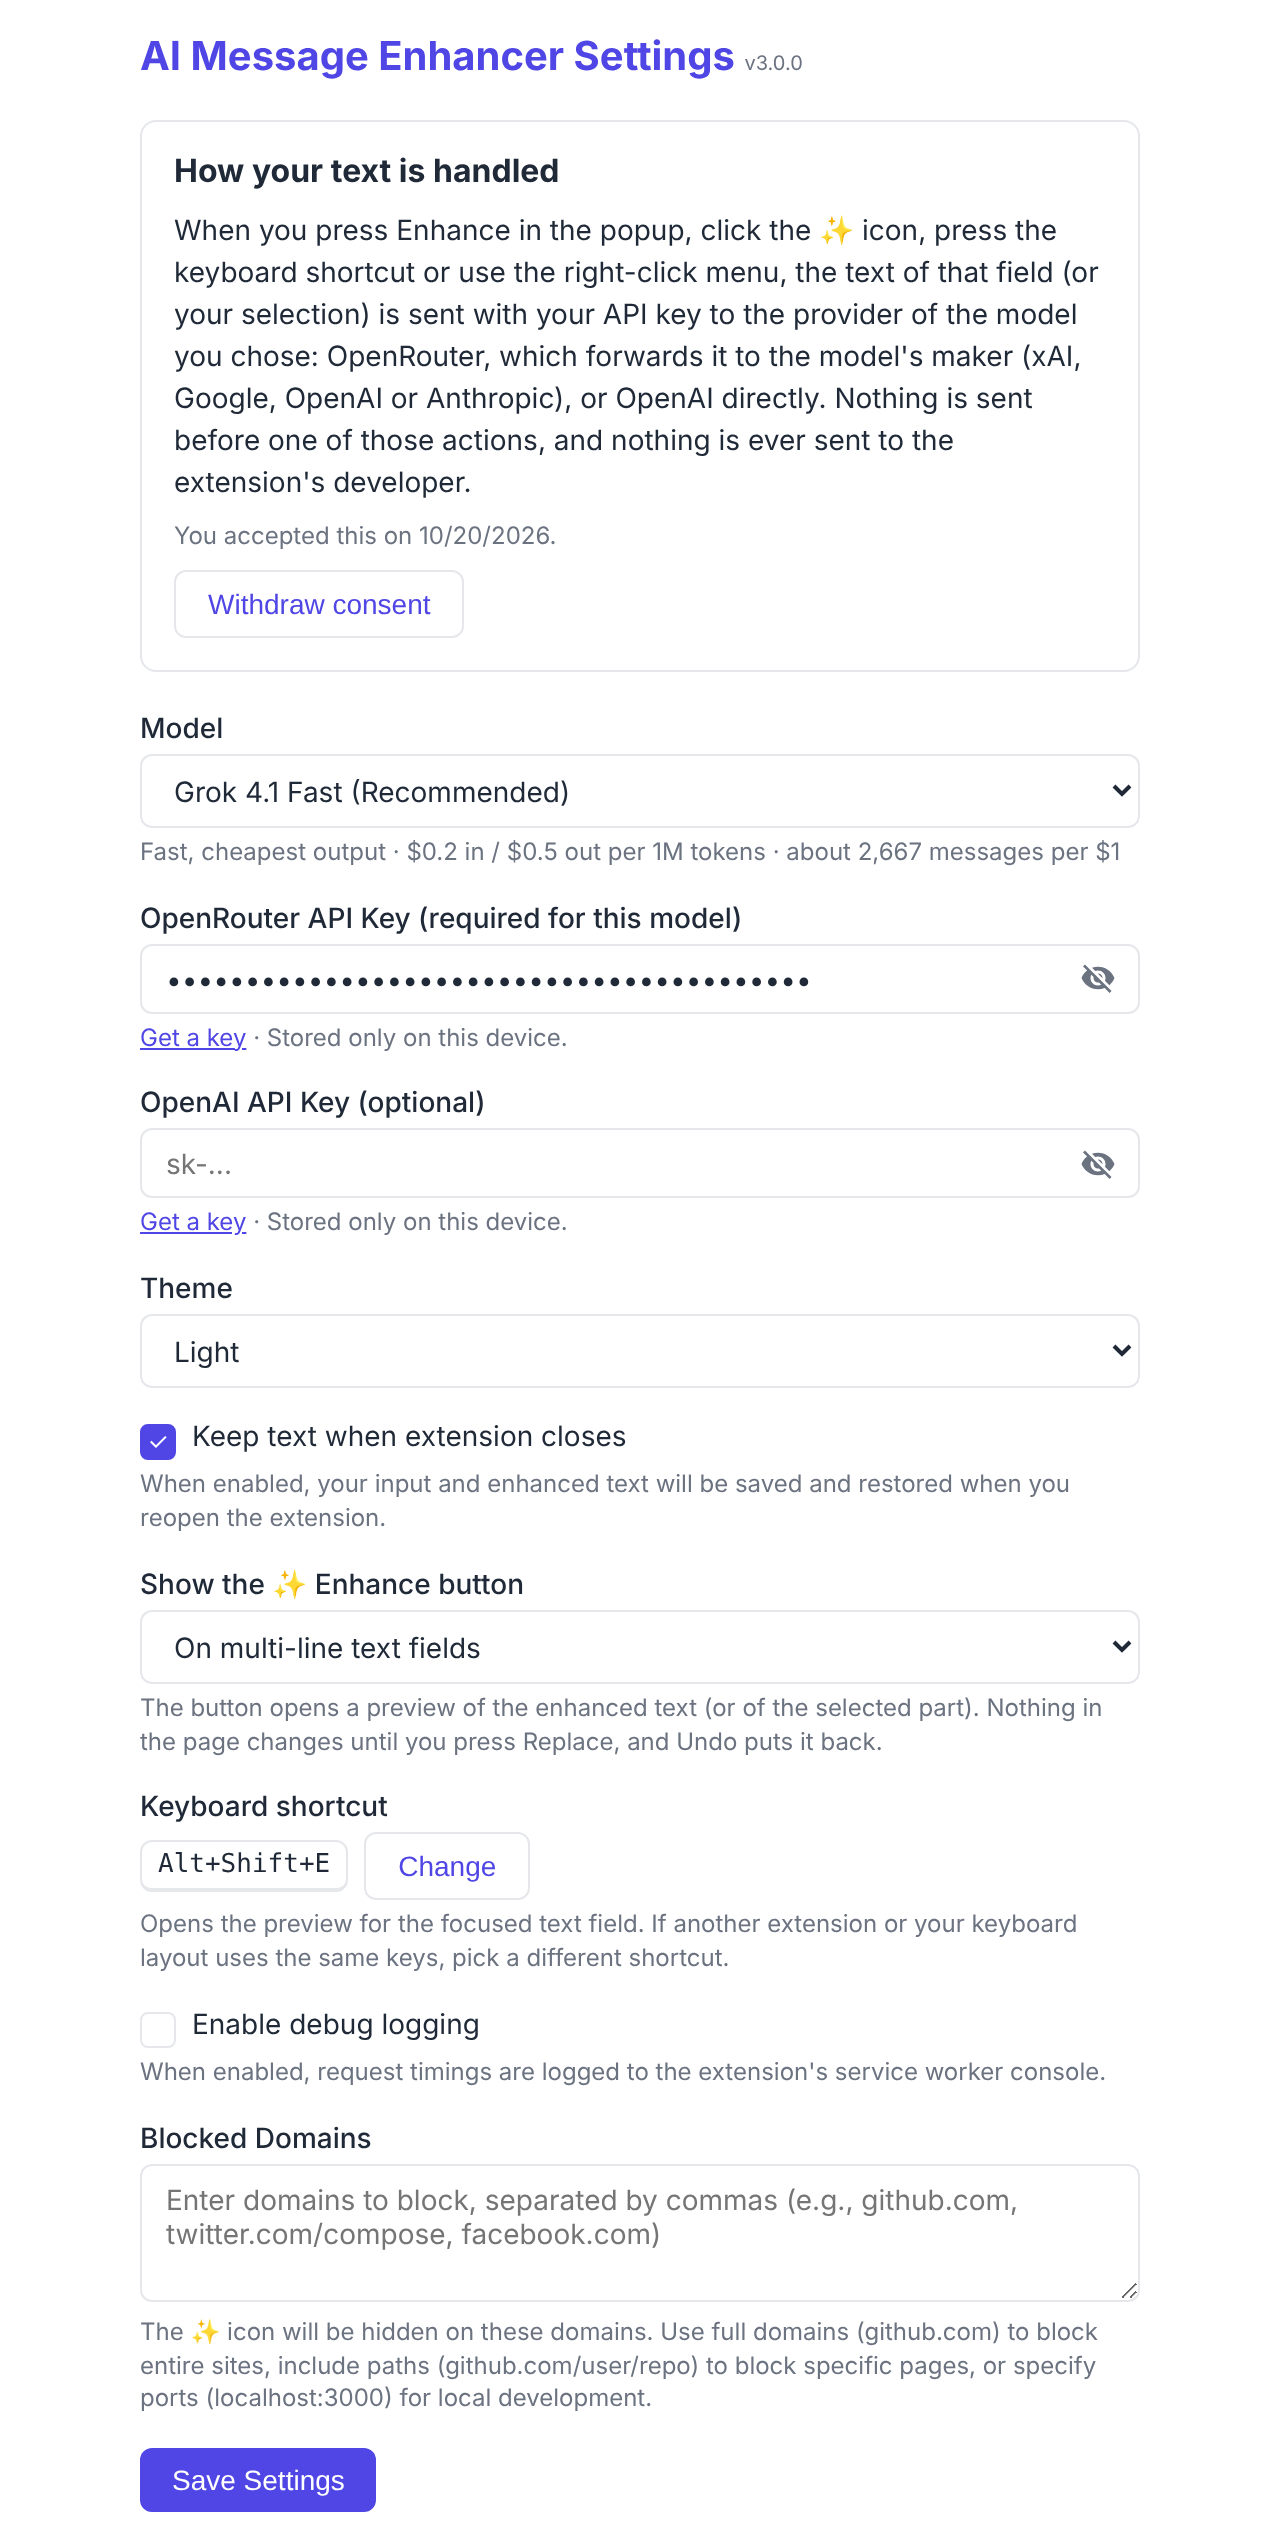
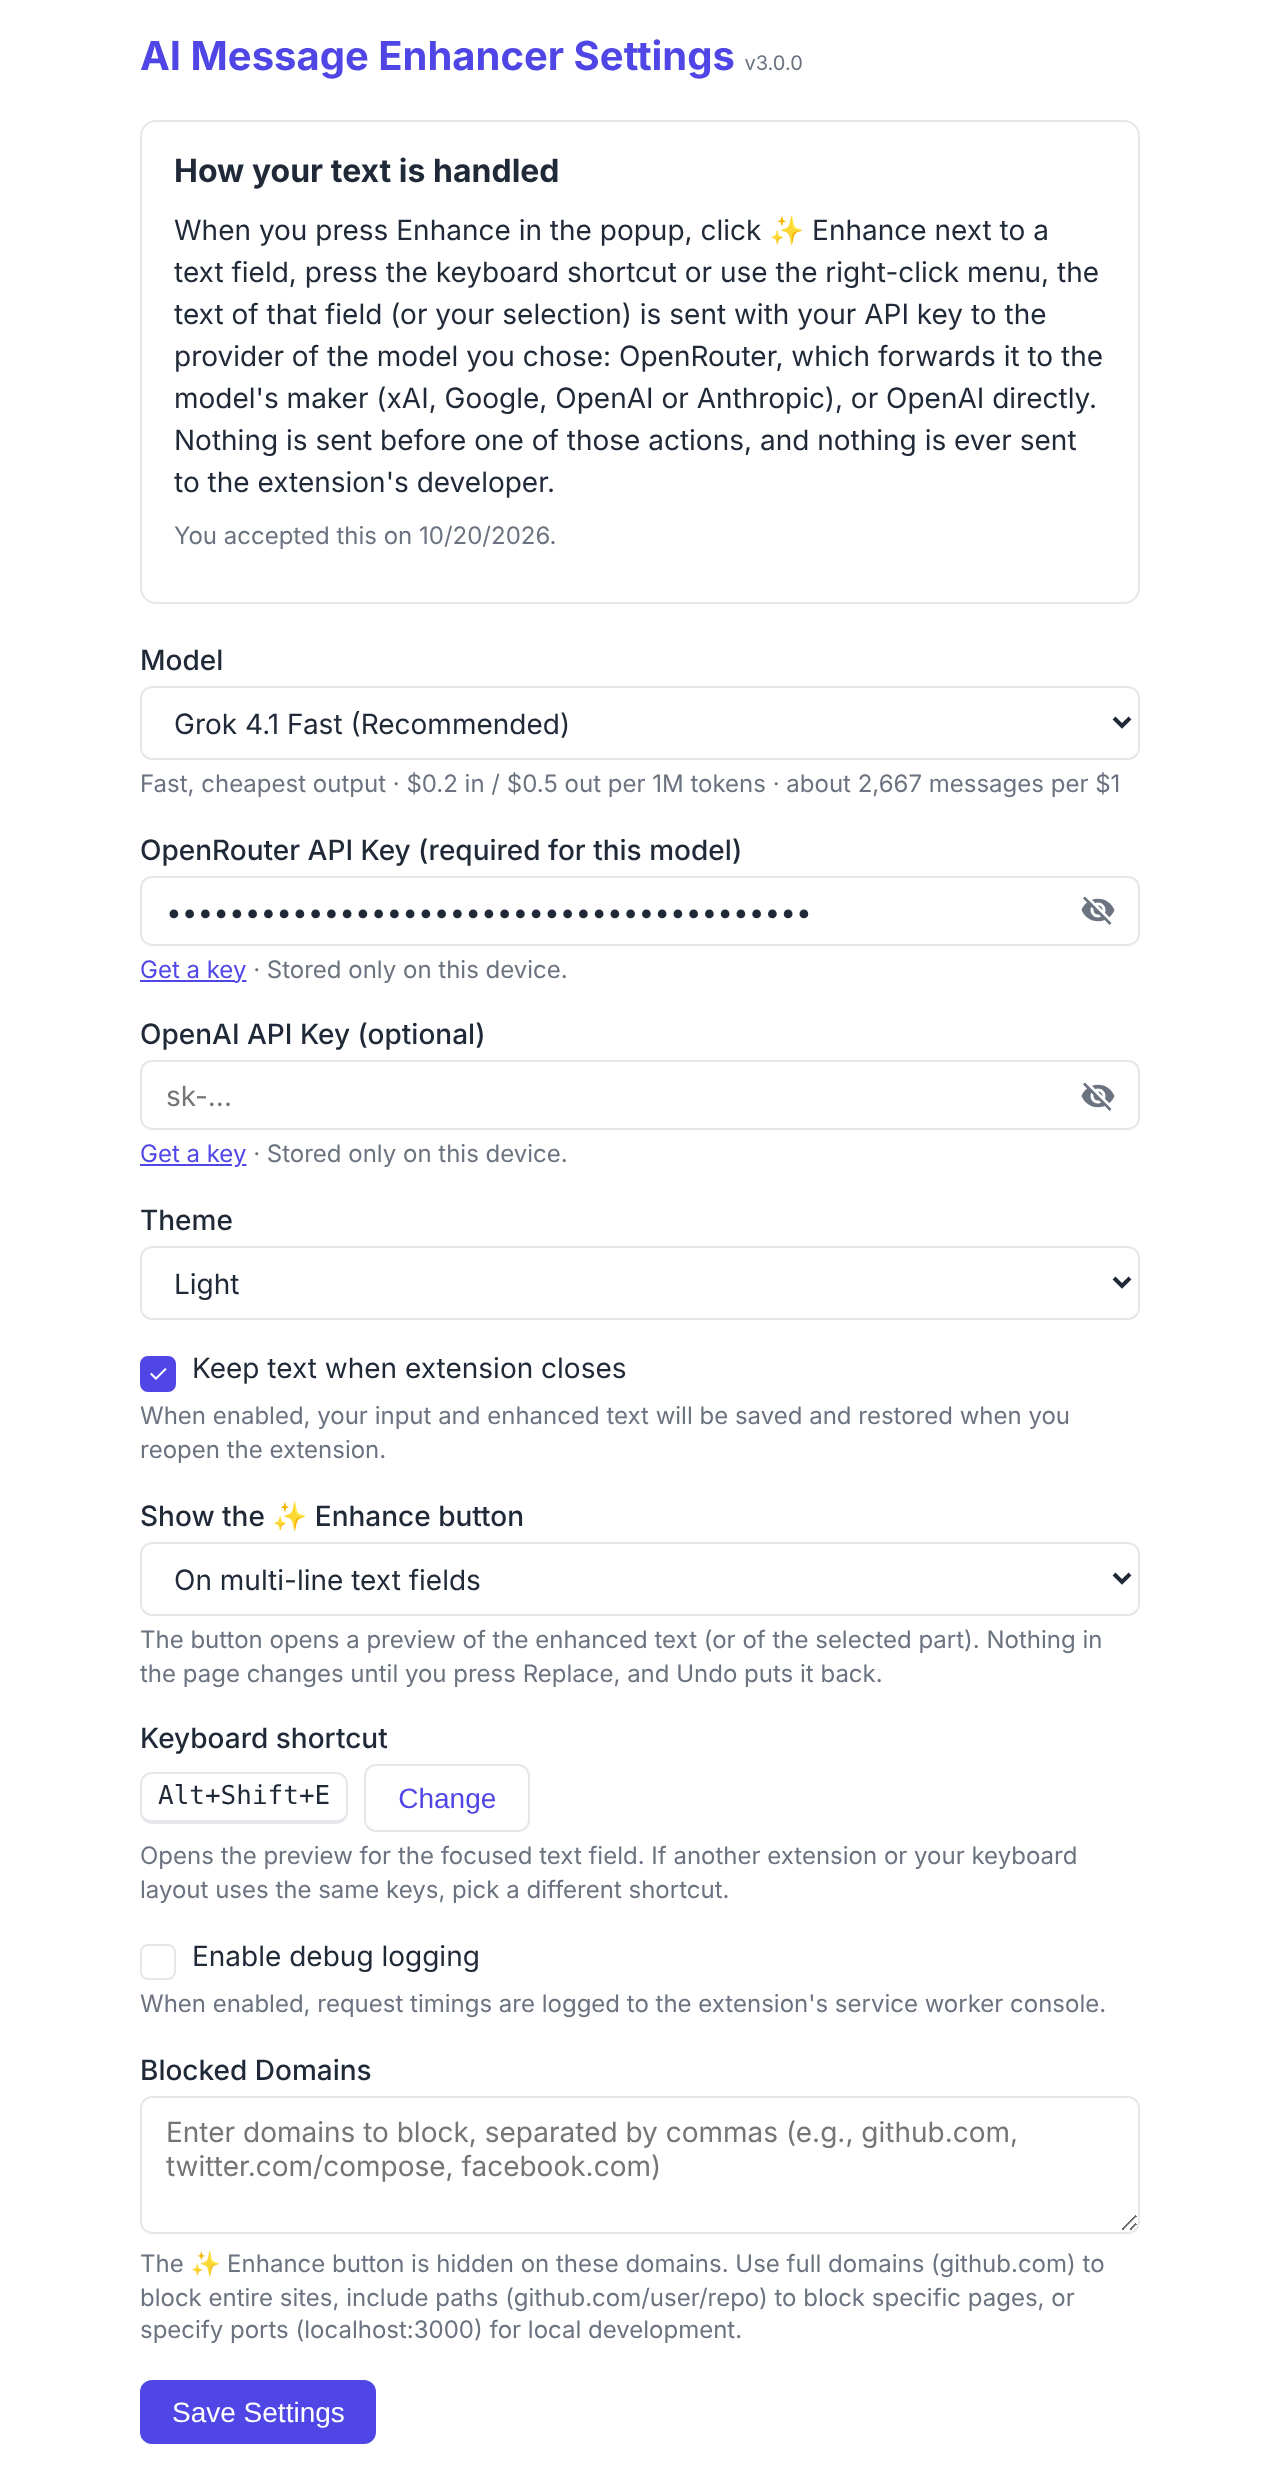
fix(settings): confirm the data notice with a single OK button

diff --git a/src/scripts/options.js b/src/scripts/options.js
@@ -143,17 +143,12 @@ async function renderConsent() {
   dataNotice.classList.toggle("pending", !accepted);
   consentStatus.textContent = accepted
     ? `You accepted this on ${new Date(dataConsent.at).toLocaleDateString()}.`
-    : "The extension sends nothing until you agree.";
-  consentButton.textContent = accepted ? "Withdraw consent" : "I agree";
-  consentButton.className = accepted ? "secondary-button" : "";
+    : "The extension sends nothing until you press OK.";
+  consentButton.hidden = accepted;
 }
 
-async function toggleConsent() {
-  if (consentButton.textContent === "I agree") {
-    await chrome.storage.local.set({ dataConsent: { version: DATA_CONSENT_VERSION, at: Date.now() } });
-  } else {
-    await chrome.storage.local.remove("dataConsent");
-  }
+async function acceptConsent() {
+  await chrome.storage.local.set({ dataConsent: { version: DATA_CONSENT_VERSION, at: Date.now() } });
   renderConsent();
 }
 
@@ -238,7 +233,7 @@ renderApiKeyFields();
 modelSelect.addEventListener("change", updateModelHelp);
 themeSelect.addEventListener("change", () => applyTheme(themeSelect.value));
 saveButton.addEventListener("click", saveSettings);
-consentButton.addEventListener("click", toggleConsent);
+consentButton.addEventListener("click", acceptConsent);
 // Extension pages may open chrome:// URLs through the tabs API, not through links.
 document.getElementById("change-shortcut").addEventListener("click", () => chrome.tabs.create({ url: "chrome://extensions/shortcuts" }));
 chrome.commands.getAll().then((commands) => {

diff --git a/src/interface/options.html b/src/interface/options.html
@@ -21,7 +21,7 @@
                 is ever sent to the extension's developer.
             </p>
             <p id="consent-status" class="help-text"></p>
-            <button type="button" id="consent-btn">I agree</button>
+            <button type="button" id="consent-btn">OK</button>
         </section>
 
         <div class="form-group">

diff --git a/PRIVACY.md b/PRIVACY.md
@@ -9,7 +9,7 @@ AI Message Enhancer is a Chrome extension that improves the grammar, clarity and
 
 ### Text you choose to enhance
 - When you press Enhance in the popup, click ✨ Enhance next to a text field, press the keyboard shortcut or use the right-click menu, the text of that field (or your selection) is sent to the provider of the model you chose, together with your API key.
-- Nothing is sent before one of those actions, and nothing is sent until you accept the data notice shown on install (you can withdraw consent at any time in settings).
+- Nothing is sent before one of those actions, and nothing is sent until you accept the data notice shown on install.
 - If "Keep text when extension closes" is on, the popup's input and output text are stored on your device only.
 
 ### Settings
@@ -44,7 +44,6 @@ Requests use your own API key, so they are subject to your agreement with that p
 
 ## Your Control
 - Turn off the ✨ button entirely, or hide it on specific sites, in settings.
-- Withdraw consent to the data notice in settings; the extension then sends nothing.
 - Remove all stored data by uninstalling the extension.
 
 ## Children's Privacy

diff --git a/README.md b/README.md
@@ -101,7 +101,7 @@ A Chrome extension that enhances, corrects, and beautifies your text using fast,
 
 ### API Configuration
 - **Model**: choose from a short list of fast, low-cost models (see below)
-- **Data notice**: shown on install and on upgrade from v2. Nothing is sent to an AI provider until you accept it, and you can withdraw consent at any time in settings
+- **Data notice**: shown on install and on upgrade from v2. Nothing is sent to an AI provider until you press OK
 - **API keys**: an OpenRouter key (`sk-or-...`) for the OpenRouter models, or an OpenAI key for the OpenAI models
 - API keys and the selected model are stored in Chrome's local storage on this device only (not synced to your Google account)
 - Your API key is only sent to the provider of the selected model
